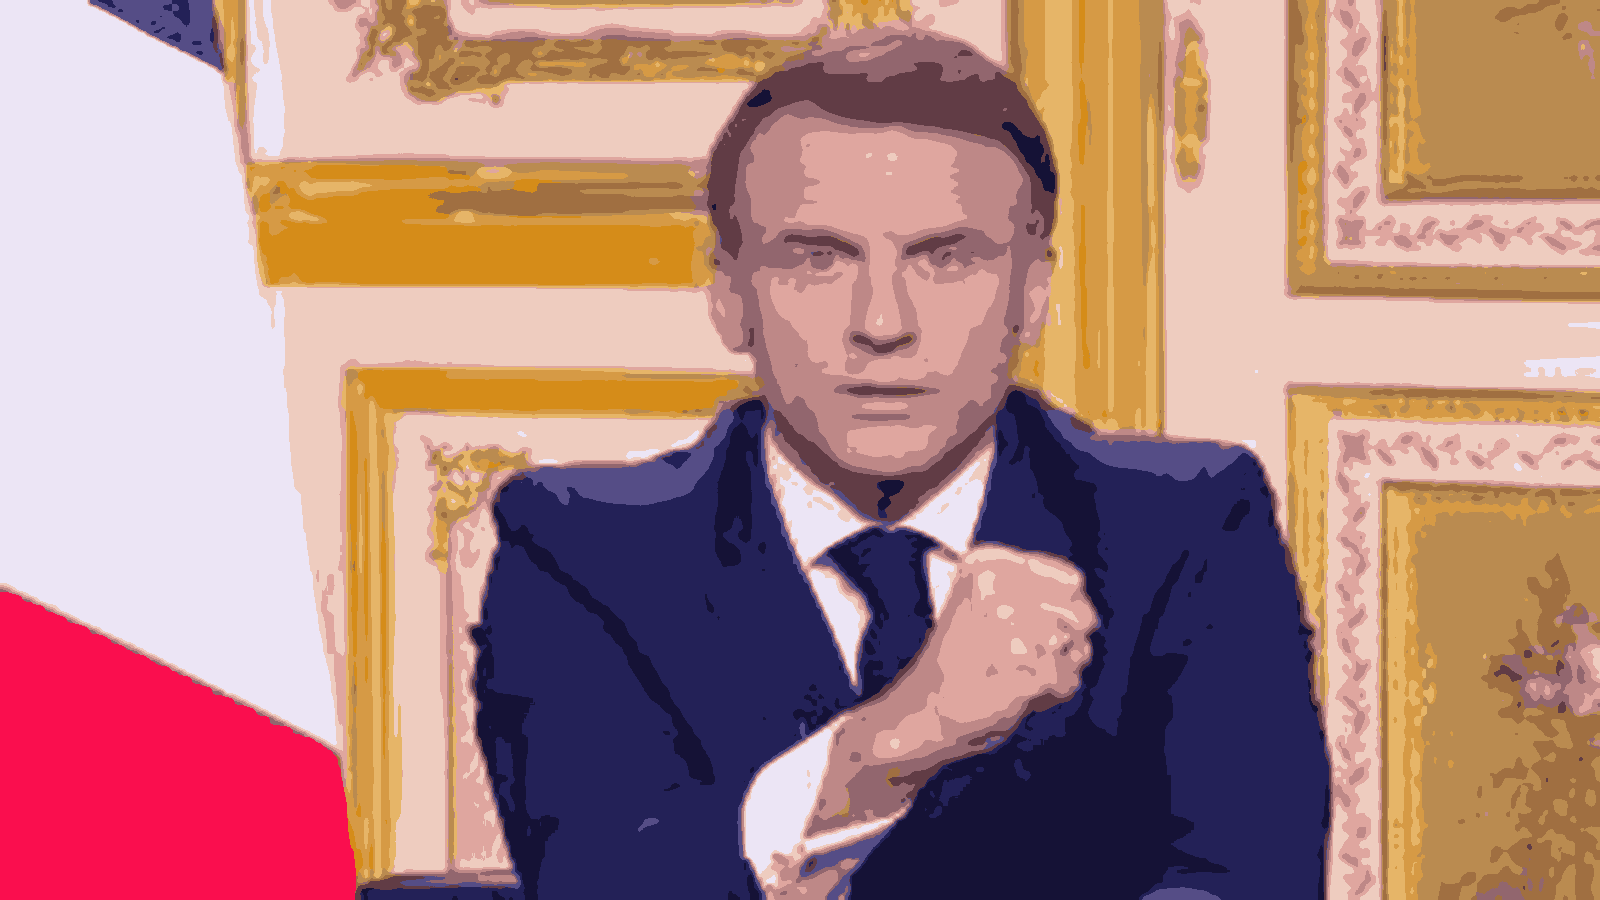
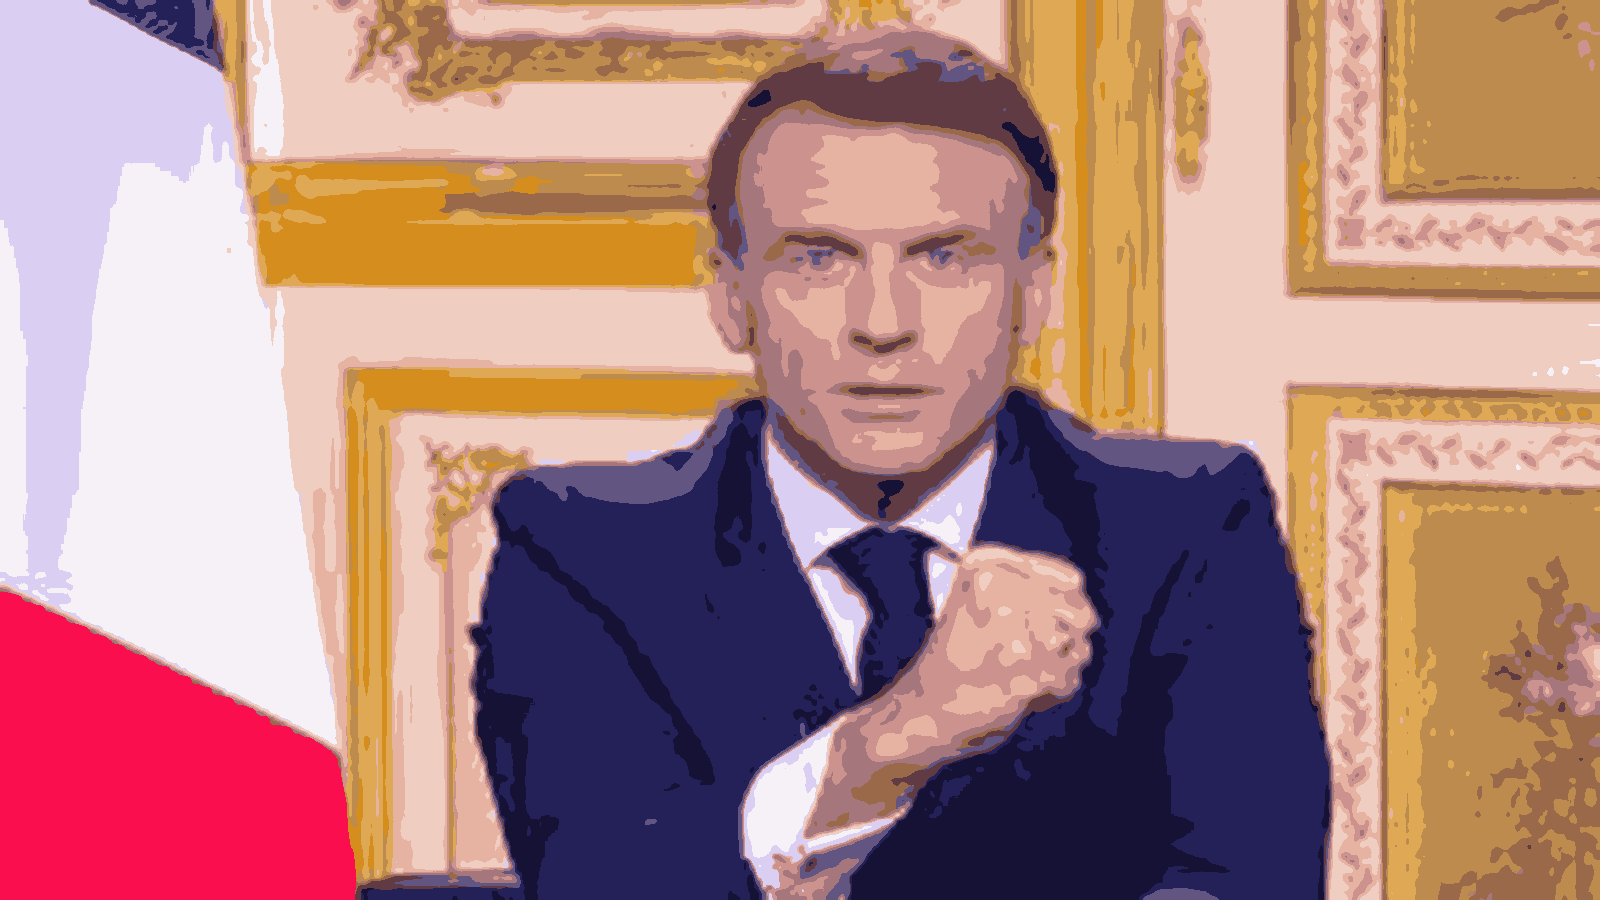
added morphology dilate and erode for mostly lv of grey

diff --git a/internal/calculation/morphology.go b/internal/calculation/morphology.go
@@ -1,0 +1,95 @@
+package calculation
+
+import (
+	"image"
+	"image/color"
+)
+
+func MorphClose(img image.Image, radius int) image.Image {
+	return erode(dilate(img, radius), radius)
+}
+
+func dilate(img image.Image, radius int) image.Image {
+	bounds := img.Bounds()
+	out := image.NewNRGBA(bounds)
+
+	for y := bounds.Min.Y; y < bounds.Max.Y; y++ {
+		for x := bounds.Min.X; x < bounds.Max.X; x++ {
+			out.SetNRGBA(x, y, dominantColor(img, x, y, radius, bounds))
+		}
+	}
+	return out
+}
+
+func erode(img image.Image, radius int) image.Image {
+	bounds := img.Bounds()
+	out := image.NewNRGBA(bounds)
+
+	for y := bounds.Min.Y; y < bounds.Max.Y; y++ {
+		for x := bounds.Min.X; x < bounds.Max.X; x++ {
+			out.SetNRGBA(x, y, minorityColor(img, x, y, radius, bounds))
+		}
+	}
+	return out
+}
+
+func dominantColor(img image.Image, cx, cy, radius int, bounds image.Rectangle) color.NRGBA {
+	counts := make(map[color.RGBA]int)
+
+	for dy := -radius; dy <= radius; dy++ {
+		for dx := -radius; dx <= radius; dx++ {
+			x, y := cx+dx, cy+dy
+			if x < bounds.Min.X || x >= bounds.Max.X || y < bounds.Min.Y || y >= bounds.Max.Y {
+				continue
+			}
+			r, g, b, a := img.At(x, y).RGBA()
+			c := color.RGBA{R: uint8(r >> 8), G: uint8(g >> 8), B: uint8(b >> 8), A: uint8(a >> 8)}
+			counts[c]++
+		}
+	}
+
+	var dominant color.RGBA
+	max := 0
+	for c, n := range counts {
+		if n > max {
+			max = n
+			dominant = c
+		}
+	}
+	return color.NRGBA{R: dominant.R, G: dominant.G, B: dominant.B, A: dominant.A}
+}
+
+func minorityColor(img image.Image, cx, cy, radius int, bounds image.Rectangle) color.NRGBA {
+	r, g, b, a := img.At(cx, cy).RGBA()
+	current := color.RGBA{R: uint8(r >> 8), G: uint8(g >> 8), B: uint8(b >> 8), A: uint8(a >> 8)}
+
+	counts := make(map[color.RGBA]int)
+	total := 0
+
+	for dy := -radius; dy <= radius; dy++ {
+		for dx := -radius; dx <= radius; dx++ {
+			x, y := cx+dx, cy+dy
+			if x < bounds.Min.X || x >= bounds.Max.X || y < bounds.Min.Y || y >= bounds.Max.Y {
+				continue
+			}
+			rv, gv, bv, av := img.At(x, y).RGBA()
+			c := color.RGBA{R: uint8(rv >> 8), G: uint8(gv >> 8), B: uint8(bv >> 8), A: uint8(av >> 8)}
+			counts[c]++
+			total++
+		}
+	}
+
+	if counts[current]*2 < total {
+		var dominant color.RGBA
+		maxColor := 0
+		for c, n := range counts {
+			if n > maxColor {
+				maxColor = n
+				dominant = c
+			}
+		}
+		return color.NRGBA{R: dominant.R, G: dominant.G, B: dominant.B, A: dominant.A}
+	}
+
+	return color.NRGBA{R: current.R, G: current.G, B: current.B, A: current.A}
+}

diff --git a/internal/app.go b/internal/app.go
@@ -72,8 +72,12 @@ func (a *App) LogicTesting() error {
 		return err
 	}
 	fmt.Println("The output is dooooone")
-	contour := calculation.NewContour(quantized)
-	contourImg := contour.Render(quantized)
+	closed := calculation.MorphClose(quantized, 3)
+	if err := imgio.Save("output_morphed.png", closed, imgio.PNGEncoder()); err != nil {
+		return fmt.Errorf("save contours: %w", err)
+	}
+	contour := calculation.NewContour(closed)
+	contourImg := contour.Render(closed)
 	if err := imgio.Save("output_contours.png", contourImg, imgio.PNGEncoder()); err != nil {
 		return fmt.Errorf("save contours: %w", err)
 	}
